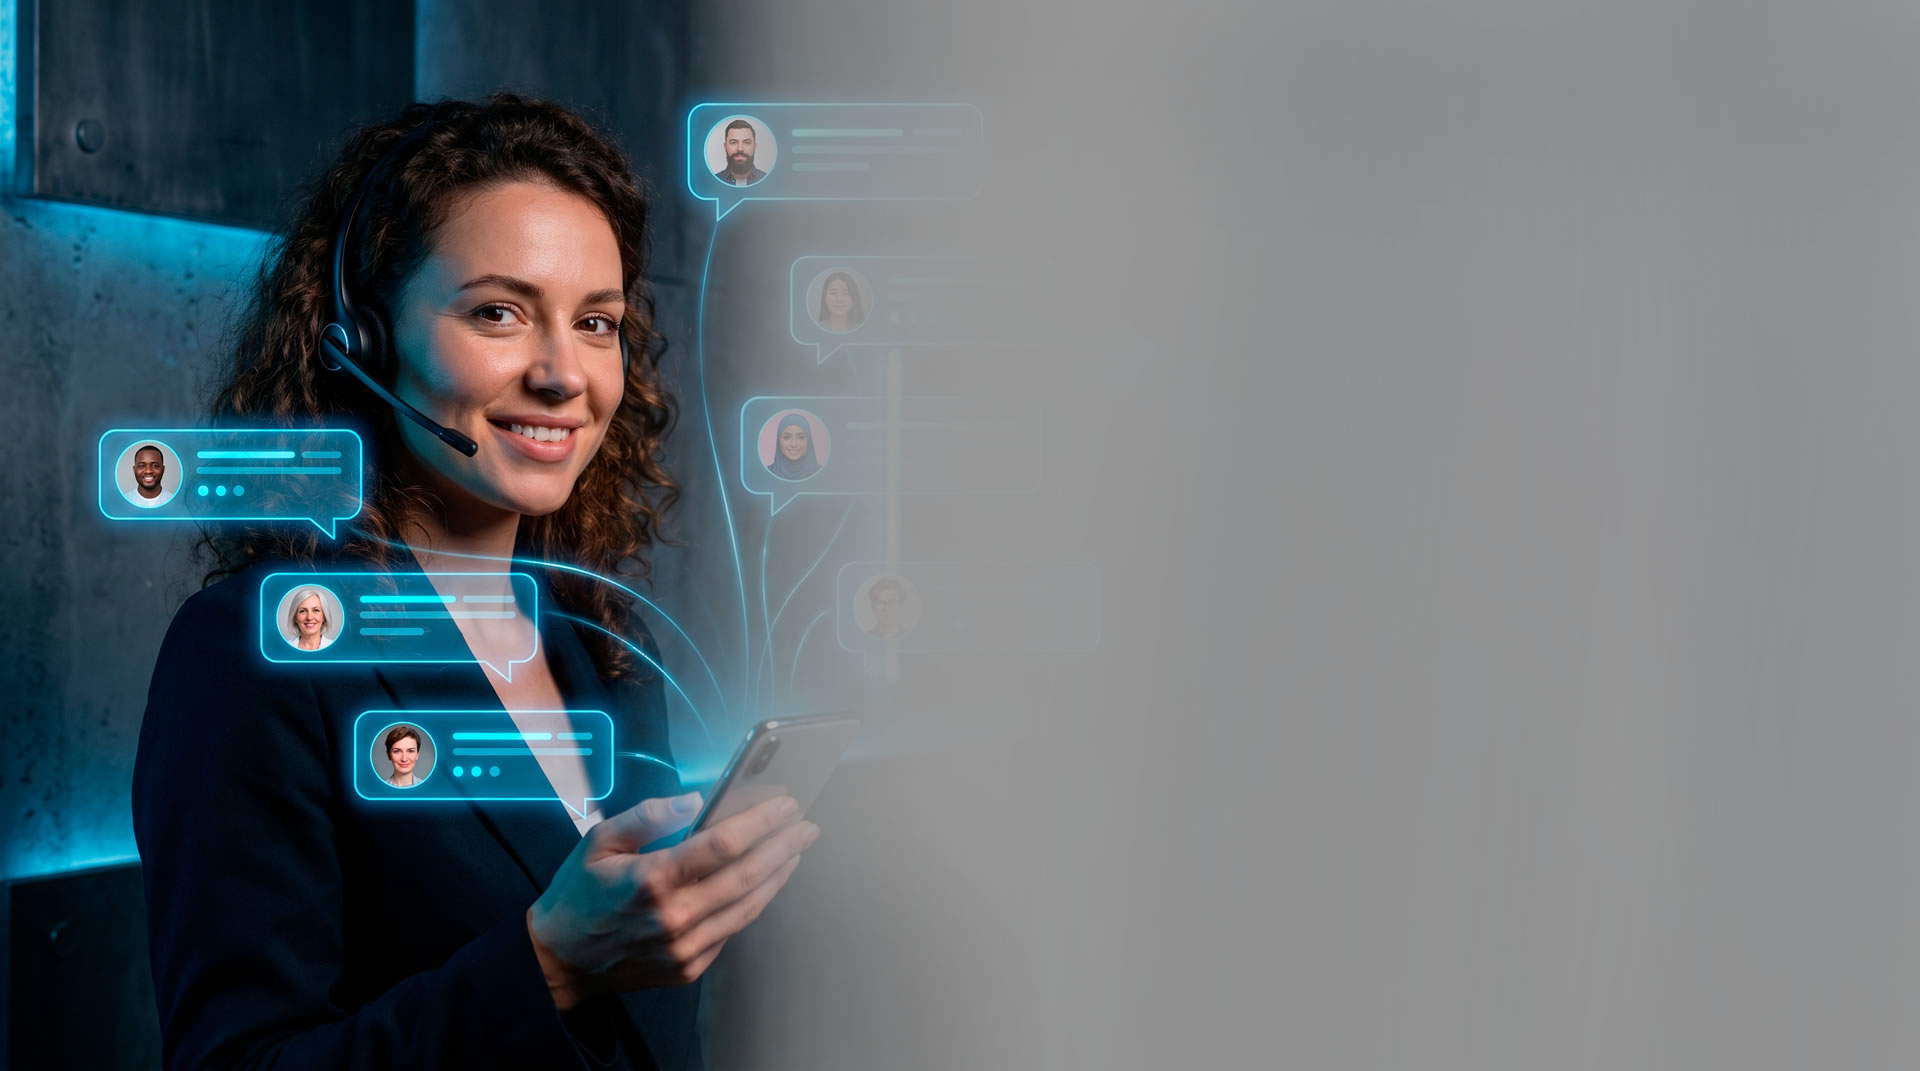
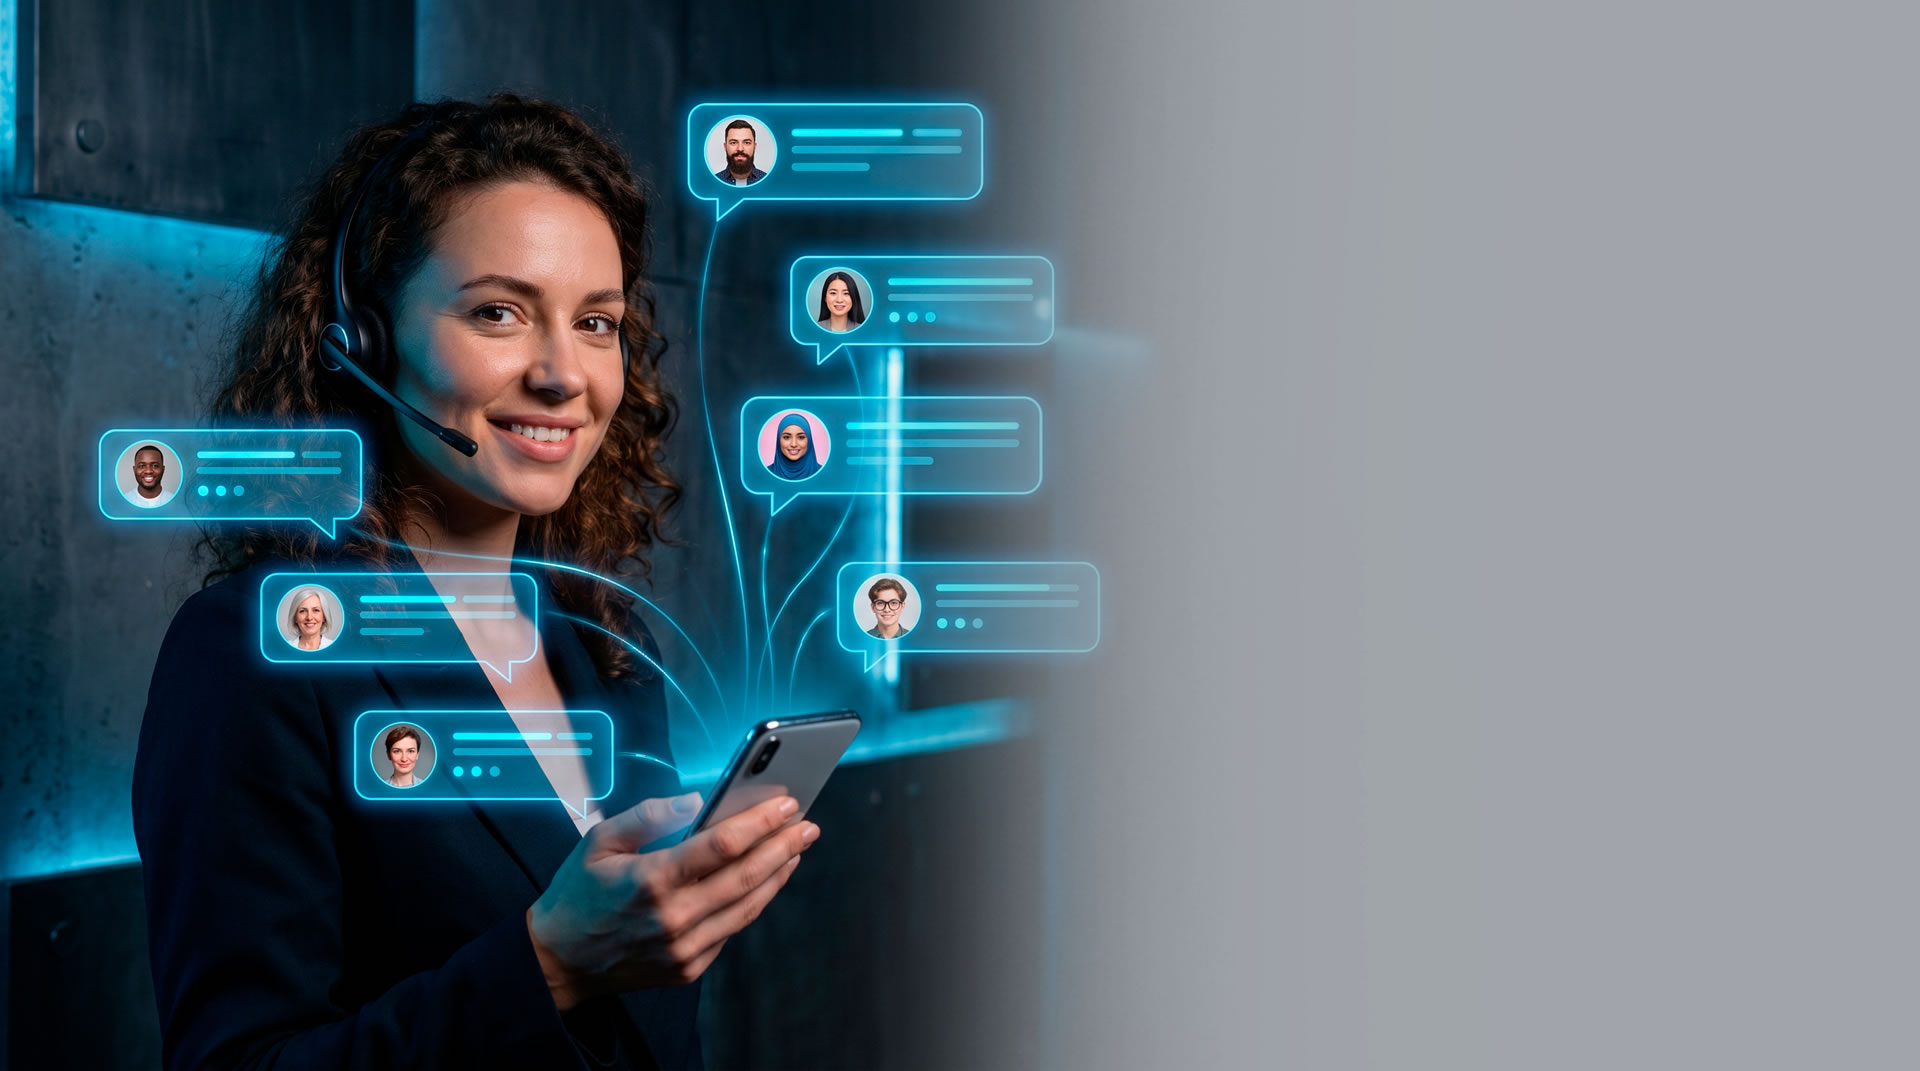
Margem corrigida no componente com novo background

diff --git a/src/components/landing/AboutUs.tsx b/src/components/landing/AboutUs.tsx
@@ -15,10 +15,10 @@ const AboutUs = () => {
         style={{ backgroundImage: `url(${bgMesh})` }}
       />
 
-      <div className="container relative z-10 mx-auto px-4">
-        <div className="mx-auto max-w-4xl space-y-6 text-center lg:ml-auto lg:mr-0 lg:flex lg:h-[850px] lg:max-w-3xl lg:flex-col lg:justify-center lg:text-left lg:-mr-8">
+      <div className="container relative z-10 mx-auto px-4 lg:pr-0">
+        <div className="mx-auto max-w-4xl space-y-6 text-center lg:ml-auto lg:mr-0 lg:-mr-6 lg:flex lg:h-[850px] lg:max-w-xl lg:flex-col lg:justify-center lg:text-left">
           <h2
-            className="animate-fade-in mx-auto w-full max-w-3xl text-4xl font-bold leading-tight text-white max-md:text-balance md:text-5xl lg:mx-0 lg:max-w-[43rem] lg:text-6xl"
+            className="animate-fade-in mx-auto w-full max-w-3xl text-4xl font-bold leading-tight text-white max-md:text-balance md:text-5xl lg:mx-0 lg:text-6xl"
             style={{ animationDelay: "0.1s" }}
           >
             <span className="block lg:translate-x-1 text-[#07244c]">
